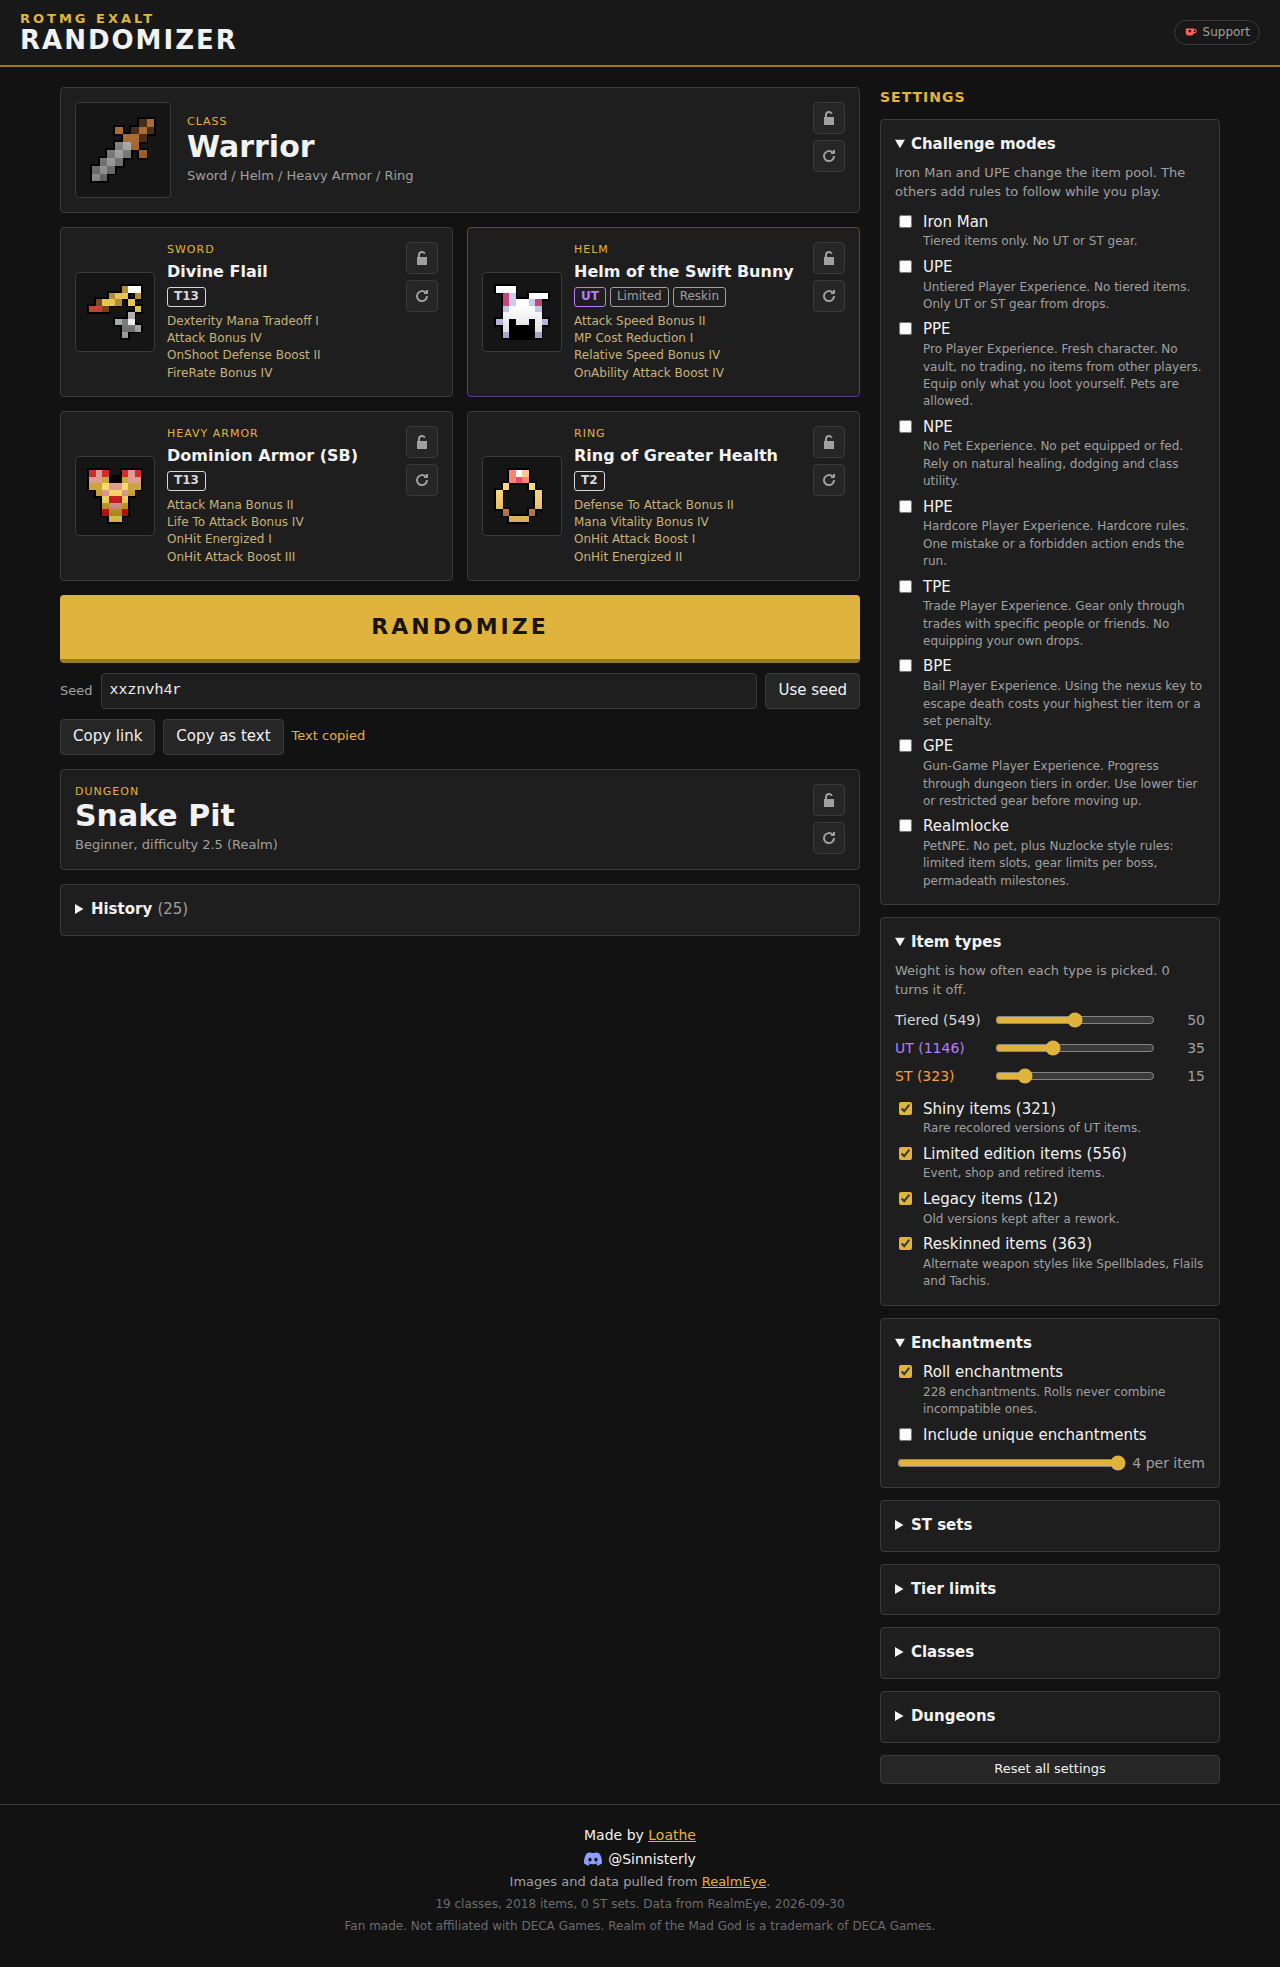
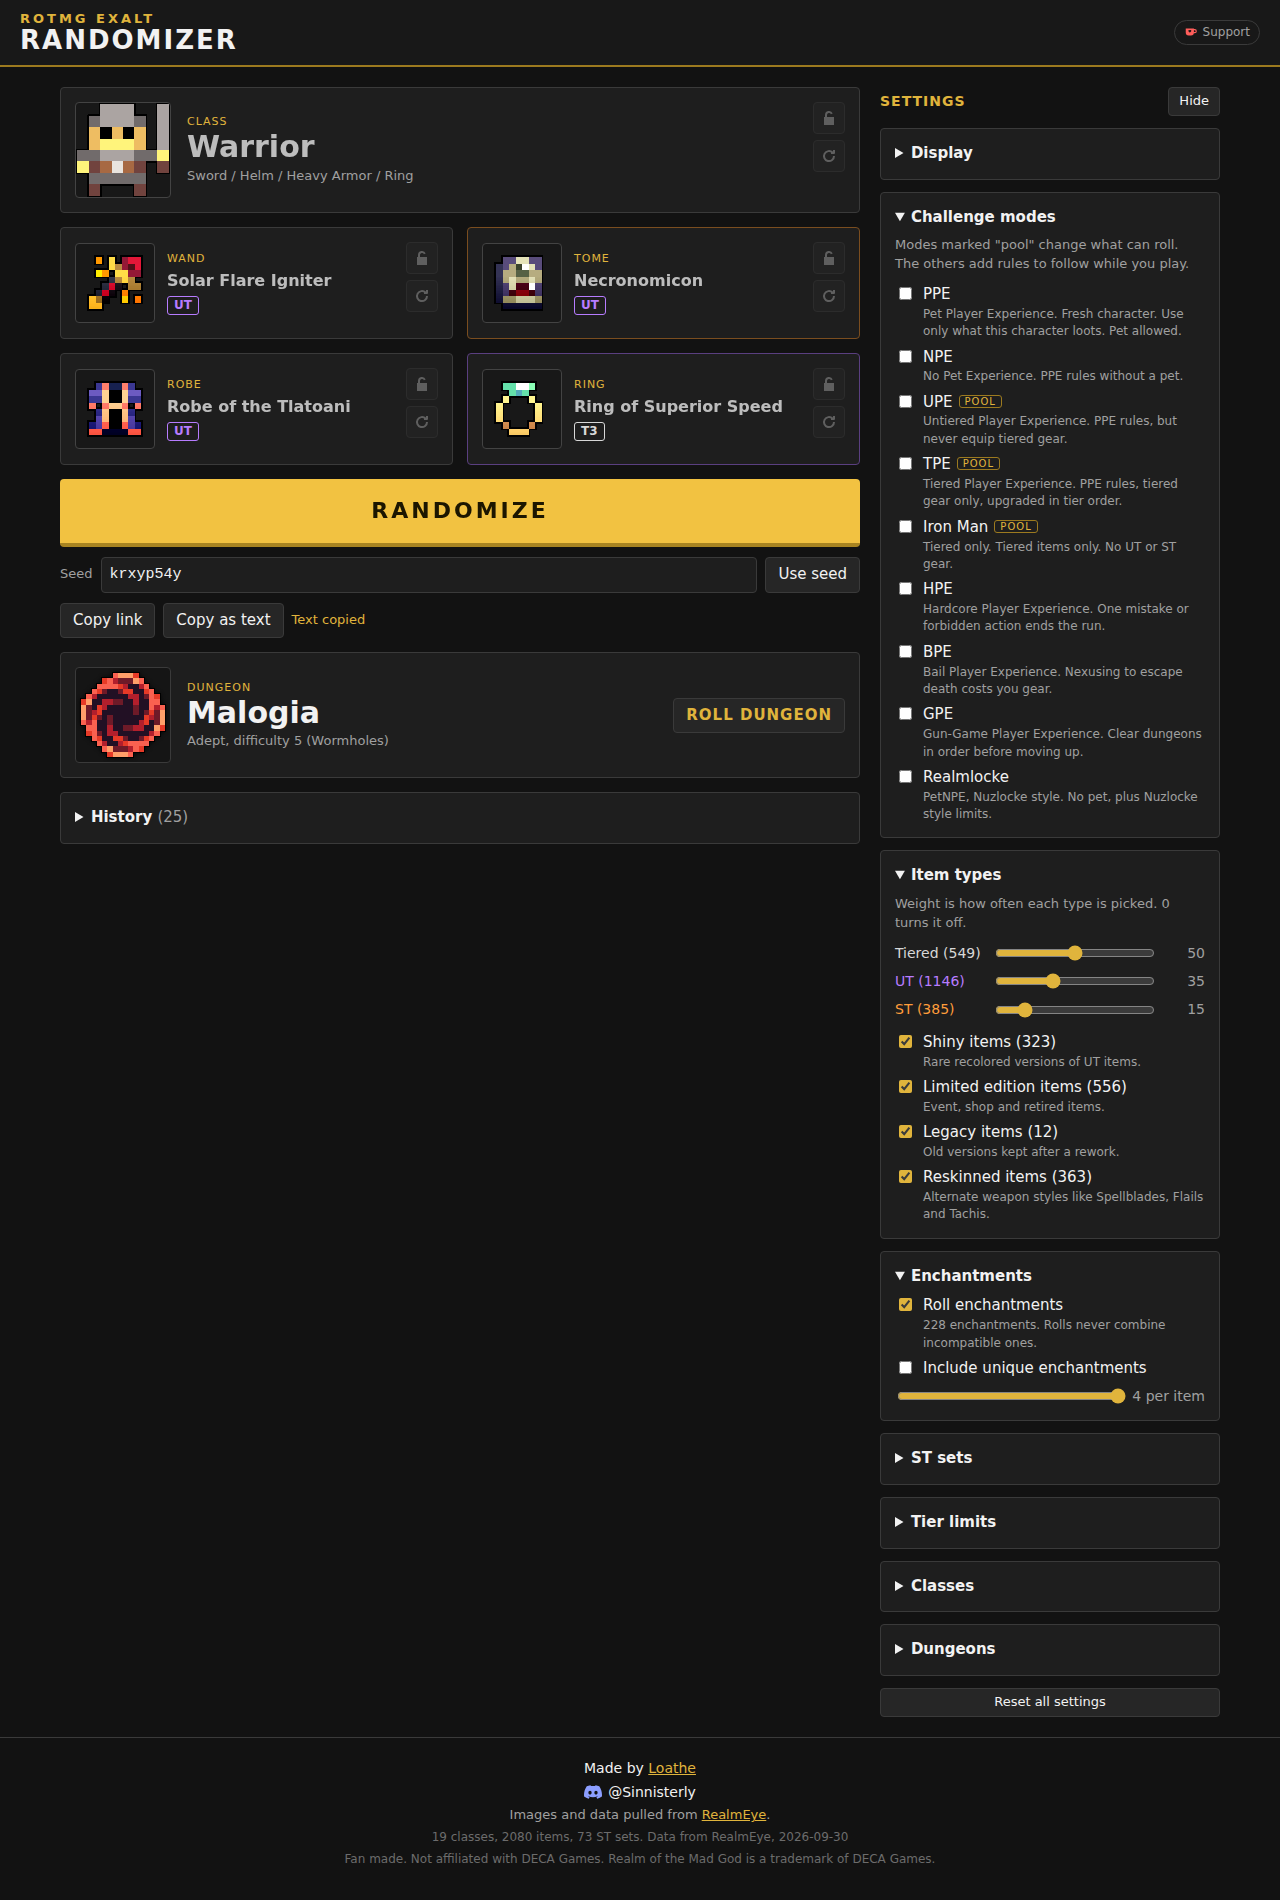
Collapsible settings sidebar, detailed challenge mode cards, corrected PPE and TPE definitions

Changed region(s): [[0.0312, 0.0, 0.9688, 0.9005], [0.3438, 0.9316, 0.6875, 0.9937], [0.3125, 0.1242, 0.3438, 0.1553]]

diff --git a/js/app.js b/js/app.js
@@ -32,25 +32,82 @@
 
   // Challenge modes. "kinds" limits which item types can roll.
   // "excludes" lists modes that cannot be on at the same time.
+  // "note" marks modes whose rules differ between groups.
+  const VARIES = 'Rules for this mode differ between players and groups. Agree on the exact rules before you start.';
   const MODES = [
-    { id: 'ironman', name: 'Iron Man', kinds: ['t'], excludes: ['upe'],
-      rule: 'Tiered items only. No UT or ST gear.' },
-    { id: 'upe', name: 'UPE', long: 'Untiered Player Experience', kinds: ['ut', 'st'], excludes: ['ironman'],
-      rule: 'No tiered items. Only UT or ST gear from drops.' },
-    { id: 'ppe', name: 'PPE', long: 'Pro Player Experience',
-      rule: 'Fresh character. No vault, no trading, no items from other players. Equip only what you loot yourself. Pets are allowed.' },
+    { id: 'ppe', name: 'PPE', long: 'Pet Player Experience',
+      summary: 'Fresh character. Use only what this character loots. Pet allowed.',
+      details: [
+        'Start a new level 1 character.',
+        'No trading, and no items from your vault, gift chest or other characters.',
+        'Equip only items that drop for this character.',
+        'Your pet and cosmetics (skins, dyes, cloths) are allowed.',
+        'Common extra rules: no guild or Discord dungeons, no leeching, forge only with materials and blueprints found on this run.',
+        'Daily login, mission, event and shop rewards are usually avoided.',
+      ],
+      note: 'Originally called "Pro Player Experience" by NeutralMan.' },
     { id: 'npe', name: 'NPE', long: 'No Pet Experience',
-      rule: 'No pet equipped or fed. Rely on natural healing, dodging and class utility.' },
+      summary: 'PPE rules without a pet.',
+      details: [
+        'All PPE rules apply.',
+        'No pet: do not equip, feed or use one.',
+        'Some players run it on a brand new account ("New Player Experience"), which also means no pet.',
+      ] },
+    { id: 'upe', name: 'UPE', long: 'Untiered Player Experience', kinds: ['ut', 'st'], excludes: ['ironman', 'tpe'],
+      summary: 'PPE rules, but never equip tiered gear.',
+      details: [
+        'All PPE rules apply.',
+        'Drop your starter gear. Start with only a T0 weapon and no ability, armor or ring.',
+        'Never equip tiered items. Only UT and ST gear.',
+        'A slot stays empty until you find a UT or ST item for it.',
+      ] },
+    { id: 'tpe', name: 'TPE', long: 'Tiered Player Experience', kinds: ['t'], excludes: ['upe'],
+      summary: 'PPE rules, tiered gear only, upgraded in tier order.',
+      details: [
+        'All PPE rules apply.',
+        'Only equip tiered items. No UT or ST gear.',
+        'Upgrade one tier at a time. You cannot skip a tier.',
+      ] },
+    { id: 'ironman', name: 'Iron Man', long: 'Tiered only', kinds: ['t'], excludes: ['upe'],
+      summary: 'Tiered items only. No UT or ST gear.',
+      details: [
+        'Only tiered items can be equipped.',
+        'No UT or ST gear, even if it drops.',
+        'Unlike TPE, you may skip tiers.',
+      ] },
     { id: 'hpe', name: 'HPE', long: 'Hardcore Player Experience',
-      rule: 'Hardcore rules. One mistake or a forbidden action ends the run.' },
-    { id: 'tpe', name: 'TPE', long: 'Trade Player Experience',
-      rule: 'Gear only through trades with specific people or friends. No equipping your own drops.' },
+      summary: 'One mistake or forbidden action ends the run.',
+      details: [
+        'Usually built on PPE rules.',
+        'One death ends the run.',
+        'Breaking any agreed rule also ends the run.',
+        'Popularized by content creators such as Sebchoof.',
+      ],
+      note: VARIES },
     { id: 'bpe', name: 'BPE', long: 'Bail Player Experience',
-      rule: 'Using the nexus key to escape death costs your highest tier item or a set penalty.' },
+      summary: 'Nexusing to escape death costs you gear.',
+      details: [
+        'Usually built on PPE rules.',
+        'Every time you use the nexus key to escape death, you lose your highest tier item, or take another agreed penalty.',
+      ],
+      note: VARIES },
     { id: 'gpe', name: 'GPE', long: 'Gun-Game Player Experience',
-      rule: 'Progress through dungeon tiers in order. Use lower tier or restricted gear before moving up.' },
-    { id: 'realmlocke', name: 'Realmlocke', long: 'PetNPE',
-      rule: 'No pet, plus Nuzlocke style rules: limited item slots, gear limits per boss, permadeath milestones.' },
+      summary: 'Clear dungeons in order before moving up.',
+      details: [
+        'Usually built on PPE rules.',
+        'Progress through dungeon difficulty in order. Clear the current tier before moving to harder content.',
+        'Use lower tier or restricted gear while you progress.',
+      ],
+      note: VARIES },
+    { id: 'realmlocke', name: 'Realmlocke', long: 'PetNPE, Nuzlocke style',
+      summary: 'No pet, plus Nuzlocke style limits.',
+      details: [
+        'All NPE rules apply.',
+        'Only the first drop from each boss or dungeon may be kept, in the spirit of a Pokemon Nuzlocke.',
+        'Limit how many item slots you may fill.',
+        'Set permadeath milestones: if you die before one, the run is over.',
+      ],
+      note: VARIES },
   ];
 
   if (!DATA || !DATA.items) {
@@ -96,6 +153,7 @@
       enchants: { on: false, count: 1, unique: false },
       setChance: 0,
       animate: true,
+      sidebarHidden: false,
       tiers,
       classesOff: [],
       dungeonOn: true,
@@ -721,8 +779,8 @@
     for (const m of active) {
       const li = document.createElement('li');
       const strong = document.createElement('strong');
-      strong.textContent = m.name;
-      li.append(strong, ' ' + m.rule);
+      strong.textContent = `${m.name} (${m.long})`;
+      li.append(strong, modeDetails(m));
       ul.appendChild(li);
     }
 
@@ -841,6 +899,28 @@
     render();
   }
 
+  let showOtherModes = false;
+
+  // Bullet list of a mode's rules, plus its note.
+  function modeDetails(m) {
+    const frag = document.createDocumentFragment();
+    const ul = document.createElement('ul');
+    ul.className = 'mode-detail';
+    for (const d of m.details) {
+      const li = document.createElement('li');
+      li.textContent = d;
+      ul.appendChild(li);
+    }
+    frag.appendChild(ul);
+    if (m.note) {
+      const p = document.createElement('p');
+      p.className = 'mode-note';
+      p.textContent = m.note;
+      frag.appendChild(p);
+    }
+    return frag;
+  }
+
   function buildSettings() {
     // Display
     const disp = $('displayList');
@@ -848,17 +928,53 @@
     disp.appendChild(checkbox('Slot machine animation', settings.animate, (on) => { settings.animate = on; saveSettings(); },
       { small: reduceMotion ? 'Off because your system asks for reduced motion.' : 'Items spin before they land.', disabled: reduceMotion }));
 
-    // Modes
+    // Modes: selected ones show as full cards, the rest fold away.
     const modeList = $('modeList');
     modeList.innerHTML = '';
-    for (const m of MODES) {
-      const small = (m.long ? m.long + '. ' : '') + m.rule;
-      modeList.appendChild(checkbox(m.name, !!settings.modes[m.id], (on) => {
+    const selected = MODES.filter((m) => settings.modes[m.id]);
+    const others = MODES.filter((m) => !settings.modes[m.id]);
+    const modeBox = (m, full) => {
+      const box = checkbox(m.name, !!settings.modes[m.id], (on) => {
         settings.modes[m.id] = on;
         if (on && m.excludes) for (const x of m.excludes) settings.modes[x] = false;
+        if (on) showOtherModes = false;
         buildSettings();
         changed();
-      }, { small }));
+      }, { small: full ? m.long : `${m.long}. ${m.summary}` });
+      if (m.kinds) {
+        const tag = document.createElement('span');
+        tag.className = 'mode-tag';
+        tag.textContent = 'pool';
+        tag.title = 'Changes which items can roll';
+        box.querySelector('span').insertBefore(tag, box.querySelector('small'));
+      }
+      if (!full) return box;
+      const card = document.createElement('div');
+      card.className = 'mode-card';
+      card.appendChild(box);
+      card.appendChild(modeDetails(m));
+      return card;
+    };
+    for (const m of selected) modeList.appendChild(modeBox(m, true));
+    if (selected.length) {
+      const wrap = document.createElement('div');
+      wrap.className = 'mode-others';
+      const btn = document.createElement('button');
+      btn.type = 'button';
+      btn.className = 'btn small';
+      btn.textContent = `${showOtherModes ? 'Hide' : 'Show'} other modes (${others.length})`;
+      btn.setAttribute('aria-expanded', String(showOtherModes));
+      btn.addEventListener('click', () => { showOtherModes = !showOtherModes; buildSettings(); });
+      wrap.appendChild(btn);
+      if (showOtherModes) {
+        const list = document.createElement('div');
+        list.className = 'mode-others-list';
+        for (const m of others) list.appendChild(modeBox(m, false));
+        wrap.appendChild(list);
+      }
+      modeList.appendChild(wrap);
+    } else {
+      for (const m of others) modeList.appendChild(modeBox(m, false));
     }
 
     // Weights
@@ -1011,6 +1127,15 @@
     return i === DUNGEONS.groups.length - 1 ? `Difficulty ${lo} and up` : `Difficulty ${lo} to ${g.max}`;
   }
 
+  function applySidebar() {
+    const hidden = !!settings.sidebarHidden;
+    document.querySelector('.layout').classList.toggle('wide', hidden);
+    $('settingsToggle').setAttribute('aria-expanded', String(!hidden));
+    $('settingsToggle').title = hidden ? 'Show settings' : 'Hide settings';
+    // Sprite sizes depend on card width, so redraw.
+    render();
+  }
+
   // ---------- Misc UI ----------
 
   let toastTimer = null;
@@ -1038,6 +1163,11 @@
 
   function bindEvents() {
     $('rollBtn').addEventListener('click', () => rollAll());
+    $('settingsToggle').addEventListener('click', () => {
+      settings.sidebarHidden = !settings.sidebarHidden;
+      applySidebar();
+      saveSettings();
+    });
     $('dungeonBtn').addEventListener('click', () => rollDungeonNow());
     $('seedRollBtn').addEventListener('click', () => rollAll($('seedInput').value.trim() || undefined));
     $('seedInput').addEventListener('keydown', (e) => {
@@ -1084,6 +1214,7 @@
   const hadHash = readHash();
   buildSettings();
   renderDataInfo();
+  if (settings.sidebarHidden) document.querySelector('.layout').classList.add('wide');
   if (hadHash) render();
   else {
     rollDungeon(makeRng(newSeed()));

diff --git a/css/styles.css b/css/styles.css
@@ -168,7 +168,7 @@ button, input, select { font: inherit; color: inherit; }
   margin: 2px 0 4px;
   font-size: 16px;
   font-weight: 600;
-  overflow-wrap: anywhere;
+  overflow-wrap: break-word;
 }
 .slot-name a { color: inherit; text-decoration: none; }
 .slot-name a:hover { text-decoration: underline; }
@@ -288,6 +288,52 @@ button, input, select { font: inherit; color: inherit; }
 /* Settings */
 .settings { display: flex; flex-direction: column; gap: 12px; min-width: 0; }
 .settings-title { margin: 0; font-size: 14px; text-transform: uppercase; letter-spacing: 1px; color: var(--gold); }
+.settings-head { display: flex; align-items: center; justify-content: space-between; gap: 8px; }
+.settings-body { display: flex; flex-direction: column; gap: 12px; }
+.settings-toggle .when-closed { display: none; }
+
+/* Collapsed settings: results use the full width. */
+.layout.wide { grid-template-columns: minmax(0, 1fr) auto; }
+.layout.wide .settings-body, .layout.wide .settings-title { display: none; }
+.layout.wide .settings-toggle .when-open { display: none; }
+.layout.wide .settings-toggle .when-closed { display: inline; }
+.layout.wide .settings-toggle {
+  writing-mode: vertical-rl;
+  padding: 12px 6px;
+  color: var(--gold);
+  border-color: var(--gold-dark);
+}
+@media (max-width: 900px) {
+  .layout.wide { grid-template-columns: 1fr; }
+  .layout.wide .settings-toggle { writing-mode: horizontal-tb; padding: 6px 12px; }
+}
+
+/* Challenge modes */
+.mode-list { display: flex; flex-direction: column; gap: 6px; }
+.mode-tag {
+  margin-left: 6px;
+  padding: 0 5px;
+  border: 1px solid var(--gold-dark);
+  border-radius: 3px;
+  color: var(--gold);
+  font-size: 10px;
+  text-transform: uppercase;
+  letter-spacing: 1px;
+  vertical-align: 2px;
+}
+.mode-card {
+  padding: 10px;
+  background: var(--panel-2);
+  border: 1px solid var(--gold-dark);
+  border-radius: var(--radius);
+}
+.mode-card .check { font-weight: 600; }
+.mode-detail { margin: 8px 0 0; padding-left: 18px; font-size: 13px; color: #d6d6d6; }
+.mode-detail li { margin: 3px 0; }
+.mode-note { margin: 8px 0 0; font-size: 12px; color: var(--muted); font-style: italic; }
+.mode-others { margin-top: 4px; }
+.mode-others-list { display: flex; flex-direction: column; gap: 6px; margin-top: 8px; }
+.rules .mode-detail { color: var(--text); }
 .settings summary { cursor: pointer; font-weight: 600; }
 .settings details[open] summary { margin-bottom: 8px; }
 .hint { margin: 0 0 10px; color: var(--muted); font-size: 13px; }

diff --git a/index.html b/index.html
@@ -75,8 +75,14 @@
     </section>
 
     <!-- Right: settings -->
-    <aside class="settings" aria-label="Settings">
-      <h2 class="settings-title">Settings</h2>
+    <aside class="settings" id="settings" aria-label="Settings">
+      <div class="settings-head">
+        <h2 class="settings-title">Settings</h2>
+        <button class="btn small settings-toggle" id="settingsToggle" type="button" aria-expanded="true" aria-controls="settingsBody">
+          <span class="when-open">Hide</span><span class="when-closed">Settings</span>
+        </button>
+      </div>
+      <div class="settings-body" id="settingsBody">
 
       <details class="panel">
         <summary>Display</summary>
@@ -85,8 +91,8 @@
 
       <details class="panel" open>
         <summary>Challenge modes</summary>
-        <p class="hint">Iron Man and UPE change the item pool. The others add rules to follow while you play.</p>
-        <div id="modeList" class="check-list"></div>
+        <p class="hint">Modes marked "pool" change what can roll. The others add rules to follow while you play.</p>
+        <div id="modeList" class="mode-list"></div>
       </details>
 
       <details class="panel" open>
@@ -136,6 +142,7 @@
       </details>
 
       <button class="btn small" type="button" id="resetBtn">Reset all settings</button>
+      </div>
     </aside>
   </main>
 
